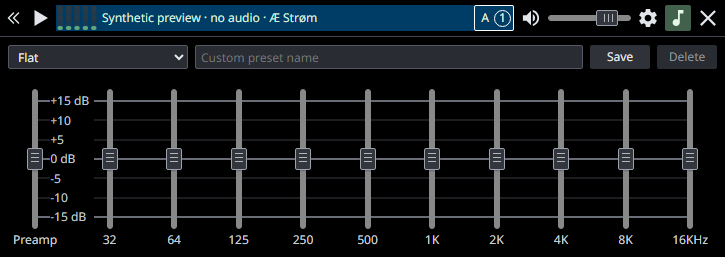
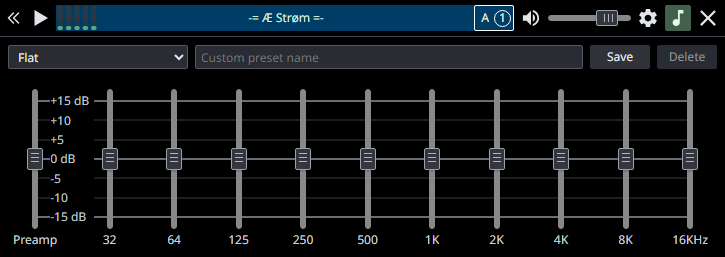
Center static player branding in the idle ticker
Keep connection, playback and error messages on the standard scrolling label. Use public pause state and scoped idle styles, cover narrow/compact transitions, and update synthetic reference screenshots. Preserve vendor, Rust source and personal profiles.

Changed region(s): [[0.1214, 0.0311, 0.4552, 0.0934]]

diff --git a/browser-tests/idle-brand.spec.js b/browser-tests/idle-brand.spec.js
@@ -1,0 +1,39 @@
+import {test,expect} from '@playwright/test';
+const brand='-= Æ Strøm =-';
+const text=page=>page.locator('.radio-ticker .dui-scrolling-label__text').first();
+const ticker=page=>page.locator('.radio-ticker');
+test.beforeEach(async({page})=>{await page.goto('/');await page.waitForFunction(()=>window.__RADIO_UI_READY__===true);});
+
+test('idle branding is static centered accessible standard ScrollingLabel text',async({page})=>{
+ await expect(text(page)).toHaveText(brand);await expect(ticker(page)).toHaveClass(/radio-ticker--idle/);await expect(ticker(page)).toHaveAttribute('aria-label',new RegExp('Æ Strøm'));
+ const m=await ticker(page).evaluate(e=>{const a=e.getBoundingClientRect(),b=e.querySelector('.dui-scrolling-label__text').getBoundingClientRect();return{error:Math.abs((a.left+a.right-b.left-b.right)/2),running:e.getAnimations({subtree:true}).filter(a=>a.playState==='running').length,color:getComputedStyle(e).color,textAlign:getComputedStyle(e).textAlign};});
+ expect(m.error).toBeLessThan(.75);expect(m.running).toBe(0);expect(m.textAlign).toBe('center');expect(m.color).not.toBe('rgba(0, 0, 0, 0)');
+ expect(await page.evaluate(()=>window.radioPreview.bridge.actions)).toEqual([]);expect((await page.locator('.radio-owner').boundingBox())).toMatchObject({width:725,height:36});
+ await page.evaluate(()=>window.radioPreview.bridge.update({fullTitle:'Old metadata must not leak into idle',displayTitle:'Old metadata must not leak into idle'}));await expect(text(page)).toHaveText(brand);
+});
+
+test('Play Stop and stopped station selection preserve the idle transition contract',async({page})=>{
+ await page.keyboard.press('2');expect(await page.evaluate(()=>window.radioPreview.ui.getState().snapshot.activeSlot)).toBe(1);await expect(text(page)).toHaveText(brand);
+ await page.getByRole('button',{name:'Play',exact:true}).click();await expect(page.getByRole('button',{name:'Stop',exact:true})).toBeVisible();await expect(ticker(page)).not.toHaveClass(/radio-ticker--idle/);
+ const title='Synthetic artist — a long track title '.repeat(20);await page.evaluate(title=>window.radioPreview.bridge.update({status:'playing',requestedPlaying:true,error:null,fullTitle:title,displayTitle:title}),title);
+ await expect(text(page)).toHaveText(title.slice(0,240));await expect(ticker(page)).toHaveCSS('text-align','start');
+ await expect.poll(()=>ticker(page).evaluate(e=>e.getAnimations({subtree:true}).some(a=>a.playState==='running'))).toBe(true);
+ await page.keyboard.press('Control+c');expect(await page.evaluate(()=>window.radioPreview.bridge.copies.at(-1))).toBe(title);
+ await page.getByRole('button',{name:'Stop',exact:true}).click();await expect(text(page)).toHaveText(brand);expect(await ticker(page).evaluate(e=>e.getAnimations({subtree:true}).some(a=>a.playState==='running'))).toBe(false);
+});
+
+test('connecting reconnecting and errors take precedence over branding',async({page})=>{
+ for(const status of ['connecting','reconnecting']){const label=status==='connecting'?'Connecting...':'Reconnecting...';await page.evaluate(({status,label})=>window.radioPreview.bridge.update({status,requestedPlaying:true,error:null,fullTitle:label,displayTitle:label}),{status,label});await expect(text(page)).toHaveText(label);await expect(ticker(page)).not.toHaveClass(/radio-ticker--idle/);}
+ await page.evaluate(()=>window.radioPreview.bridge.update({status:'stopped',requestedPlaying:false,error:'No stream URL for the selected slot',fullTitle:'Stopped',displayTitle:'Stopped'}));await expect(text(page)).toHaveText('No stream URL for the selected slot');await expect(ticker(page)).not.toHaveClass(/radio-ticker--idle/);
+ await page.evaluate(()=>window.radioPreview.bridge.update({status:'error',error:'Synthetic decoder failure'}));await expect(text(page)).toHaveText('Synthetic decoder failure');
+ await page.evaluate(()=>window.radioPreview.bridge.update({status:'stopped',requestedPlaying:false,error:null}));await expect(text(page)).toHaveText(brand);
+});
+
+test('compact expand and narrow ticker do not grow the window or animate idle',async({page})=>{
+ await page.getByRole('button',{name:'Station settings',exact:true}).click();const input=page.locator('[data-station-slot="5"]');await input.fill('https://synthetic.invalid/draft');
+ await page.getByRole('button',{name:'Collapse player',exact:true}).click();await expect(ticker(page)).toBeHidden();expect((await page.locator('.radio-owner').boundingBox())).toMatchObject({width:102,height:36});
+ await page.getByRole('button',{name:'Expand player',exact:true}).click();await expect(text(page)).toHaveText(brand);await expect(input).toHaveValue('https://synthetic.invalid/draft');await expect(page.locator('.settings-panel')).toBeVisible();
+ await ticker(page).evaluate(e=>{e.style.flex='0 0 70px';e.style.width='70px';});
+ const m=await ticker(page).evaluate(e=>{const a=e.getBoundingClientRect(),b=e.querySelector('.dui-scrolling-label__text').getBoundingClientRect();return{width:a.width,error:Math.abs((a.left+a.right-b.left-b.right)/2),overflow:getComputedStyle(e).overflow,running:e.getAnimations({subtree:true}).some(a=>a.playState==='running')};});
+ expect(m.width).toBe(70);expect(m.error).toBeLessThan(.75);expect(m.overflow).toBe('hidden');expect(m.running).toBe(false);
+});

diff --git a/web/radio.js b/web/radio.js
@@ -5,6 +5,7 @@ import { SpectrumAnalyzer } from './extensions/SpectrumAnalyzer.js';
 const letter = bank => String.fromCharCode(65 + bank);
 const digit = slot => String((slot + 1) % 10);
 const silent = { silent: true, origin: 'import' };
+const IDLE_TITLE = '-= Æ Strøm =-';
 const isEditor = target => target instanceof Element && !!target.closest('input,textarea,select,[contenteditable="true"],[role="combobox"],[role="slider"],[role="listbox"]');
 
 /** One owner, one bridge, persistent live controls. No audio or persistence in JS. */
@@ -33,7 +34,7 @@ export function createRadioUI(host, bridge) {
   const display = new Panel({ name: 'display', css: 'radio-display', padding: 0 }); strip.add(display);
   const spectrum = new SpectrumAnalyzer({ name: 'spectrum', bands: 5, width: 42, height: 24, background: '#003D66', idleColor: '#323940', baselineColor: '#61a77e', activeColors: ['#74b88b', '#b9c762', '#da8664'], peakColor: '#d7e3b1' }); display.add(spectrum);
   spectrum.element.classList.add('radio-spectrum'); spectrum.element.dataset.dragSurface = 'true';
-  const ticker = new ScrollingLabel({ name: 'ticker', text: 'Æ Strøm', speed: 28, startDelay: 1200, className: 'radio-ticker' }); display.add(ticker);
+  const ticker = new ScrollingLabel({ name: 'ticker', text: IDLE_TITLE, speed: 28, startDelay: 1200, className: 'radio-ticker' }); display.add(ticker);
   const indicator = new ChannelIndicator({ name: 'channel' }); display.add(indicator);
   const mute = addIconButton('mute', 'speaker', 'Mute', command('mute', () => snapshot && run({ type: 'setMuted', muted: !snapshot.muted })), false);
   const volume = new TrackBar({ name: 'volume', thumbShape: 'grip', min: 0, max: 100, step: 1, smallChange: 5, largeChange: 10, value: 80, showValue: false, onChange: e => run({ type: 'setVolume', volume: e.newValue }) }); strip.add(volume); setLabel(volume, 'Volume'); volume.element.classList.add('radio-volume');
@@ -119,9 +120,12 @@ export function createRadioUI(host, bridge) {
     const message = errorText || snapshot?.error || '';
     status.setText(message);
     const fullTitle = snapshot?.fullTitle || 'Æ Strøm';
-    const title = String(message || snapshot?.displayTitle || fullTitle).slice(0, 240);
+    const idle = !message && (!snapshot || snapshot.status === 'stopped' && !snapshot.requestedPlaying);
+    const title = idle ? IDLE_TITLE : String(message || snapshot?.displayTitle || fullTitle).slice(0, 240);
+    ticker.element.classList.toggle('radio-ticker--idle', idle);
+    ticker.setPaused(idle);
     ticker.setText(title);
-    ticker.element.title = `${snapshot?.mode === 'fake' ? 'Synthetic preview - no audio | ' : ''}${message || fullTitle} | ${snapshot?.status || 'stopped'}`;
+    ticker.element.title = `${snapshot?.mode === 'fake' ? 'Synthetic preview - no audio | ' : ''}${message || (idle ? IDLE_TITLE : fullTitle)} | ${snapshot?.status || 'stopped'}`;
     ticker.element.setAttribute('aria-label', `${message ? 'Error: ' : ''}${snapshot?.mode === 'fake' ? 'Synthetic preview. No audio. ' : ''}${title}`);
     for (const control of [chevron, play]) {
       control.element.setAttribute('aria-description', message);

diff --git a/web/native-smoke.js b/web/native-smoke.js
@@ -9,6 +9,8 @@ export async function runNativeSmoke(ui, bridge) {
   check('synthetic backend',initial.mode==='fake',{mode:initial.mode});
   if(initial.mode!=='fake')throw Error('Smoke refuses live backend');
   check('startup geometry',document.querySelector('.player-strip').getBoundingClientRect().height===36,{});
+  const idleTicker=document.querySelector('.radio-ticker'),idleText=idleTicker.querySelector('.dui-scrolling-label__text'),idleRect=idleTicker.getBoundingClientRect(),idleTextRect=idleText.getBoundingClientRect();
+  check('static centered idle brand',idleText.textContent==='-= Æ Strøm =-'&&idleTicker.classList.contains('radio-ticker--idle')&&Math.abs((idleTextRect.left+idleTextRect.right-idleRect.left-idleRect.right)/2)<.75&&!idleTicker.getAnimations({subtree:true}).some(a=>a.playState==='running'),{centerError:Math.abs((idleTextRect.left+idleTextRect.right-idleRect.left-idleRect.right)/2)});
   const playing=await bridge.dispatch({type:'setPlaying',playing:true});
   check('play snapshot',playing.requestedPlaying,{generation:playing.generation});
   const selected=await bridge.dispatch({type:'selectStation',bank:25,slot:9});
@@ -77,6 +79,8 @@ export async function runNativeSmoke(ui, bridge) {
   } finally {bridge.dispatch=originalDispatch;}
   button('play').click();await new Promise(requestAnimationFrame);
   const final=await bridge.dispatch({type:'setPlaying',playing:false});
+  await new Promise(requestAnimationFrame);
+  check('Stop restores idle brand',document.querySelector('.radio-ticker .dui-scrolling-label__text').textContent==='-= Æ Strøm =-'&&document.querySelector('.radio-ticker').classList.contains('radio-ticker--idle'),{});
   check('stop snapshot',!final.requestedPlaying,{generation:final.generation});
   await window.__TAURI__.core.invoke('save_ui_evidence',{body:JSON.stringify({kind:'programmatic native fake-backend smoke',userInput:false,audio:false,checks,pass:checks.every(c=>c.pass),snapshot:{mode:final.mode,generation:final.generation,status:final.status}},null,2)});
  } catch(error) { await window.__TAURI__.core.invoke('save_ui_evidence',{body:JSON.stringify({pass:false,error:String(error),checks},null,2)}); }

diff --git a/browser-tests/followup.spec.js b/browser-tests/followup.spec.js
@@ -17,7 +17,7 @@ test('standard Noto Sans12 is loaded from pinned local WOFF2 throughout the play
  const fonts=await page.evaluate(selectors=>selectors.map(selector=>{const style=getComputedStyle(document.querySelector(selector));return{selector,family:style.fontFamily,size:style.fontSize};}),selectors);
  for(const font of fonts){expect(font.family).toBe('"Noto Sans", "Segoe UI", Arial, sans-serif');expect(font.size,font.selector).toBe('12px');}
  expect(await page.evaluate(()=>[...document.fonts].some(f=>f.family.includes('Noto Sans')&&f.status==='loaded'))).toBe(true);expect(await page.evaluate(()=>document.fonts.check('12px "Noto Sans"','Æ Ø æ ø Живое радио'))).toBe(true);
- await page.evaluate(()=>window.radioPreview.bridge.update({fullTitle:'Æ Strøm — Живое радио',displayTitle:'Æ Strøm — Живое радио'}));await page.locator('[data-station-slot="5"]').fill('https://synthetic.invalid/Æ-Strøm/музыка');await page.screenshot({path:testInfo.outputPath('standard-font-characters.png')});
+ await page.evaluate(()=>window.radioPreview.bridge.update({status:'playing',requestedPlaying:true,fullTitle:'Æ Strøm — Живое радио',displayTitle:'Æ Strøm — Живое радио'}));await page.locator('[data-station-slot="5"]').fill('https://synthetic.invalid/Æ-Strøm/музыка');await page.screenshot({path:testInfo.outputPath('standard-font-characters.png')});
  await page.getByRole('button',{name:'Equalizer',exact:true}).click();for(const selector of ['.dui-trackbar__label','.dui-trackbar__value','.eq-grid-label']){const s=await page.locator('.eq-panel '+selector).first().evaluate(e=>({family:getComputedStyle(e).fontFamily,size:getComputedStyle(e).fontSize}));expect(s.family).toContain('Noto Sans');expect(s.size).toBe('12px');}
  expect((await page.locator('.radio-owner').boundingBox())).toMatchObject({width:725,height:257});
 });

diff --git a/browser-tests/radio.spec.js b/browser-tests/radio.spec.js
@@ -97,7 +97,7 @@ for(const slot of [0,5,6,7,8,9])test(`native URL selection and horizontal scroll
 });
 
 test('safe metadata text and teardown subscriptions',async({page})=>{
- await page.evaluate(()=>window.radioPreview.bridge.update({fullTitle:'<img src=x onerror=alert(1)>'.repeat(20),displayTitle:'<img src=x onerror=alert(1)>'.repeat(20)}));
+ await page.evaluate(()=>window.radioPreview.bridge.update({status:'playing',requestedPlaying:true,fullTitle:'<img src=x onerror=alert(1)>'.repeat(20),displayTitle:'<img src=x onerror=alert(1)>'.repeat(20)}));
  expect(await page.locator('.radio-ticker').innerText()).toContain('<img');await expect(page.locator('.radio-ticker img')).toHaveCount(0);
  const displayed=await page.locator('.radio-ticker .dui-scrolling-label__text').first().innerText();expect(displayed.length).toBeLessThanOrEqual(240);
  await page.evaluate(()=>window.radioPreview.ui.destroy());expect(await page.locator('.radio-owner').count()).toBe(0);

diff --git a/web/startup-probe.js b/web/startup-probe.js
@@ -6,6 +6,7 @@ export async function runStartupProbe(ui,bridge){
   check('default live mode',state.mode==='live');
   check('starts stopped without autoplay',state.status==='stopped'&&!state.requestedPlaying);
   check('native reveal ready',window.__AE_STROM_READY__===true);
+  check('idle title in default live mode',document.querySelector('.radio-ticker .dui-scrolling-label__text').textContent==='-= Æ Strøm =-'&&document.querySelector('.radio-ticker').classList.contains('radio-ticker--idle'));
   check('embedded standard font loaded',[...document.fonts].some(f=>f.family.includes('Noto Sans')&&f.status==='loaded'));
   check('persisted synthetic stations and custom EQ present',state.stations.filter(s=>s.url).length===2&&state.eqPresets.some(p=>p.name==='ProbeCurve'));
   const volume=(state.volume+1)%100;await bridge.dispatch({type:'setVolume',volume});await bridge.dispatch({type:'setMuted',muted:!state.muted});

diff --git a/web/radio.css b/web/radio.css
@@ -123,3 +123,8 @@ html,body{font:var(--dui-font-size)/var(--dui-line-height) var(--dui-font-family
 .radio-owner .station-row input,.radio-owner .player-strip button,.radio-owner .bank-strip button,.radio-owner .eq-sliders :is(.dui-trackbar__label,.dui-trackbar__value){font-family:var(--dui-font-family);font-size:var(--dui-font-size)}
 .radio-owner .channel-slot{line-height:1}
 .radio-owner .eq-grid-label{width:44px;height:18px;line-height:18px}
+
+/* App-only idle presentation; the standard ScrollingLabel owns its lifecycle. */
+.radio-owner .radio-ticker--idle{display:flex;align-items:center;justify-content:center;text-align:center}
+.radio-owner .radio-ticker--idle .dui-scrolling-label__track{flex:none}
+.radio-owner .radio-ticker--idle .dui-scrolling-label__text[aria-hidden="true"]{display:none}

diff --git a/docs/VERIFICATION.md b/docs/VERIFICATION.md
@@ -1,12 +1,12 @@
 # Single full executable verification
 
-Æ Strøm 0.1.0, Tauri 2.12.1 and pinned published taet-ui 0.6.0-rc.4. Canonical executable: **ae-strom.exe in the project root**, the complete application, **18591744 bytes**, SHA256 **d7a10aae70022bf32f70c97ce1495d04259ba506d8133a7ecff2d7a49b8103a9**. The same full binary is at target/release/ae-strom.exe. No launcher is required.
+Æ Strøm 0.1.0, Tauri 2.12.1 and pinned published taet-ui 0.6.0-rc.4. Canonical executable: **ae-strom.exe in the project root**, the complete application, **18592256 bytes**, SHA256 **33010a8ffe3ce1d845807337967f71aef2acedee293312f61b44a41e9e527b32**. The same full binary is at target/release/ae-strom.exe. No launcher is required.
 
 ## Behavior and data
 
 Double-click starts real live mode, **Stopped**. Fake is explicit --fake only. All UI/assets/fonts/audio code are embedded; only normal Windows libraries and the installed WebView2 runtime remain external. A copied single EXE was run successfully without adjacent sources, Node/npm, fonts or web folders.
 
-The portable data directory is **local-data/player beside the EXE**. The project-root delivery therefore uses the already transferred profile without copying, migrating, normalizing or overwriting it. Its hash before/after this change is identical. All existing stations, banks, EQ assignments/custom settings and other persisted fields remain. Personal settings are external editable data, never built into the EXE or Git. Exact private URL strings were scanned against the main EXE with zero matches. Git source/provenance checks also exclude configs/logs/binaries. The original player/profile and legacy configuration were not changed.
+The portable data directory is **local-data/player beside the EXE**. The project-root delivery therefore uses the already transferred profile without copying, migrating, normalizing or overwriting it. Its hash was verified unchanged during the earlier single-executable migration. The present idle UI update did not open or write that profile. All existing stations, banks, EQ assignments/custom settings and other persisted fields remain. Personal settings are external editable data, never built into the EXE or Git. Exact private URL strings were scanned against the main EXE with zero matches. Git source/provenance checks also exclude configs/logs/binaries. The original player/profile and legacy configuration were not changed.
 
 Cargo's project release build shares that same project-root profile when source markers exist. Moving only the EXE to another writable directory creates that directory's own fresh portable profile; move local-data/player/config.json too to retain stations. An absolute --data-dir override remains available. Normal startup never substitutes empty preview/AppData data. Unwritable/invalid profiles report a startup error. Earlier launcher/main binaries and a profile backup are preserved outside Git in the ignored rollback directory.
 
@@ -14,13 +14,13 @@ Cargo's project release build shares that same project-root profile when source 
 
 | Gate | Result |
 | --- | --- |
-| Browser | **64/64**, DPR 1/1.5; strict types, 25 JS syntax files and pinned vendor integrity PASS |
-| Rust | **36 unit + 7 doc**, fmt, Clippy, locked offline default-feature bins/examples release build PASS |
-| Native explicit fake | **33/33** final Tauri/WebView2 UI checks |
-| Native single EXE | **6 checks × 2 starts**, default live/stopped, portable profile, embedded fonts/assets and persisted settings |
+| Browser | **72/72**, DPR 1/1.5; strict types, 26 JS syntax files and pinned vendor integrity PASS |
+| Rust | Earlier **36 unit + 7 doc** and Clippy cover the unchanged Rust source; fmt and locked offline application release build rerun for this UI change |
+| Native explicit fake | **35/35** final Tauri/WebView2 UI checks |
+| Native single EXE | **7 checks × 2 starts**, default live/stopped, portable profile, embedded fonts/assets and persisted settings |
 | Restart | First run loaded volume 17 and saved 18; second loaded 18 and saved 19; station banks/custom EQ retained |
 | No autoplay | Native startup snapshot stayed stopped/requestedPlaying=false; engine diagnostics inactive; startup probes never requested Play |
-| Live backend | **2/2** approved bounded Play/Stop phases, app volume 10%, non-silent PCM/output callbacks in both, 4072 ms total |
+| Earlier live backend | **2/2** approved bounded Play/Stop phases, app volume 10%, non-silent PCM/output callbacks in both, 4072 ms total |
 | Cleanup | audio/http/metadata/sessionOwners all **0** after shutdown; system volume/device unchanged |
 | Framework | Exact rc.4 runtime/types/fonts/licenses unchanged; one BaseControl, no new JS runtime dependency |
 
@@ -31,3 +31,9 @@ Native fake/single-EXE checks exercise real transport/DOM/window metadata, not p
 ## Evidence and readiness
 
 Ignored local-data/followup contains single-tests-final.log, single-doc-final.log, single-clippy-final.log, single-build-final.log, single-ui.log, single-native-final.log, single-live-summary.json and single-install.json. Single-EXE save/restart evidence: `local-data/single exe smoke 20261103-195830-325/result.json`. Final fake evidence: `local-data/native-smoke-20261103-195941-437/native-ui.json`. Private profile preservation/rollback hashes are kept only under local-data. SOURCE_PROVENANCE.json records public source and EXE hashes. delivery.json records the local commit and canonical path. No installer, shortcut, remote, push or publication was created. This is a runnable local single-EXE candidate.
+
+## Current idle ticker update
+
+The centered static -= Æ Strøm =- label appears only when stopped without an error. Play/Stop, stopped station selection, stale metadata, connection/reconnection/error priority, full-title copy, moving long titles, compact/drafts and forced 70 px ticker clipping pass at browser DPR 1/1.5. Native fake start/Stop checks and two default-live/stopped starts verify the same branding. Only app JavaScript/scoped CSS and acceptance harnesses changed; framework/vendor and Rust domain/host/config sources are byte-identical to the previous source record.
+
+The optional gradient was trialed only in a synthetic preview, not shipped. Current evidence is under local-data/idle-brand-* and idle-brand-preview; screenshots at 100/150% were inspected. No personal-profile read/write or live audio was performed in this iteration. Earlier live backend evidence above is historical, with the same unchanged audio engine. Physical OS input/IME, native 100%, actual live metadata/listening and other platform limits remain as stated. The prior EXE and replaced reference PNGs are preserved in ignored idle-brand rollback.

diff --git a/docs/UI_POLISH.md b/docs/UI_POLISH.md
@@ -5,3 +5,11 @@ The accepted compact UI is retained. Normal 725×36, compact 102×36, Settings 7
 The protruding status row is replaced by ticker feedback and an off-layout accessible live region. Both empty-slot and real decoder-error regressions verify 36 px chrome and closed panels. The host now creates hidden/black and reveals after the frontend fonts/layout and host monitor geometry are ready, without a delay. Standard bundled Noto Sans at 12 px is uniform throughout; font file integrity and successful local loading are tested. EQ scale labels use 44 px boxes to fit that text.
 
 Settings preset width 110 px, native square arrow 24×24 and channel frame 40×26 are unchanged. Frame/button colors, dark ribbed grips, EQ grid, lower frequency labels and transient values remain as accepted. Browser screenshots at DPR 1/1.5 were inspected, with Unicode fixture captures. Full final evidence, binary hash and honest native-input/first-frame limitations are in VERIFICATION.md.
+
+## Idle branding
+
+Stopped state without a pending error displays -= Æ Strøm =- centered in the ticker. The standard ScrollingLabel is retained: public setPaused controls motion, while three scoped idle CSS rules center its track and hide the decorative repeated copy under narrow clipping. Connecting/reconnecting, errors and playing titles retain their existing text and marquee behavior. Compact remains 102×36 and hides the ticker; expanding restores the prior panel/drafts and correct ticker state. No framework/vendor, Rust backend, profile or audio-session changes were made.
+
+A temporary gradient was compared in isolated browser previews at DPR 1/1.5. Uniform text was kept: solid text/background contrast is 9.13:1 versus 4.82:1 at the trial gradient edges, and the 12 px punctuation reads more clearly. No effect, timer or animated gradient was shipped. Reference normal/Settings/EQ screenshots were refreshed only when their previous hashes matched the committed synthetic baseline.
+
+Final checks: 72 browser regressions, 26 JS syntax files, strict types/vendor integrity, fmt and locked offline release build; 35 native fake checks plus 7 checks in each of two default-live/stopped synthetic save/restart runs. No physical OS-input or listening pass is claimed. The personal profile was neither opened nor written, and no audio was started during this UI update. Binary/hash and artifact paths are in VERIFICATION.md and ignored local-data/idle-brand-verification.json.

diff --git a/docs/CONSUMER_NOTES.md b/docs/CONSUMER_NOTES.md
@@ -11,3 +11,5 @@ This migration follows an earlier source-aware audit; it is not a blind docs-onl
 Tauri PackageInfo.name follows config.productName when provided; it is the display name, not Cargo's crate_name. The native identity gate therefore checks Æ Strøm there, while Cargo metadata and the ae-strom.exe path identify the ASCII technical package. This was verified against the pinned tauri-codegen source before native testing.
 
 The full main executable now defaults to live/stopped with a portable profile. This is native Rust startup policy, independent of the UI framework. Fake is explicit, and no launcher/script host is needed.
+
+ScrollingLabelOptions has no public alignment option in the pinned declarations. Idle branding therefore uses public setPaused/setText and scoped app styling for centering/repeat visibility; its core lifecycle, observers and playing marquee remain unchanged. No new core patch or runtime dependency was introduced.

diff --git a/README.md b/README.md
@@ -57,6 +57,8 @@ Equalizer:
 
 ## Interface and framework
 
+When stopped without an error, the ticker shows **-= Æ Strøm =-** centered and still. Connection/reconnection messages, errors and playing track titles retain the normal ticker behavior.
+
 - A–Z banks with ten slots; active playback and Settings browsing are separate.
 - Play/Stop, volume/mute, scrolling title and full-title Ctrl+C outside editors.
 - Ten-band EQ/preamp, custom presets and per-station assignments.
